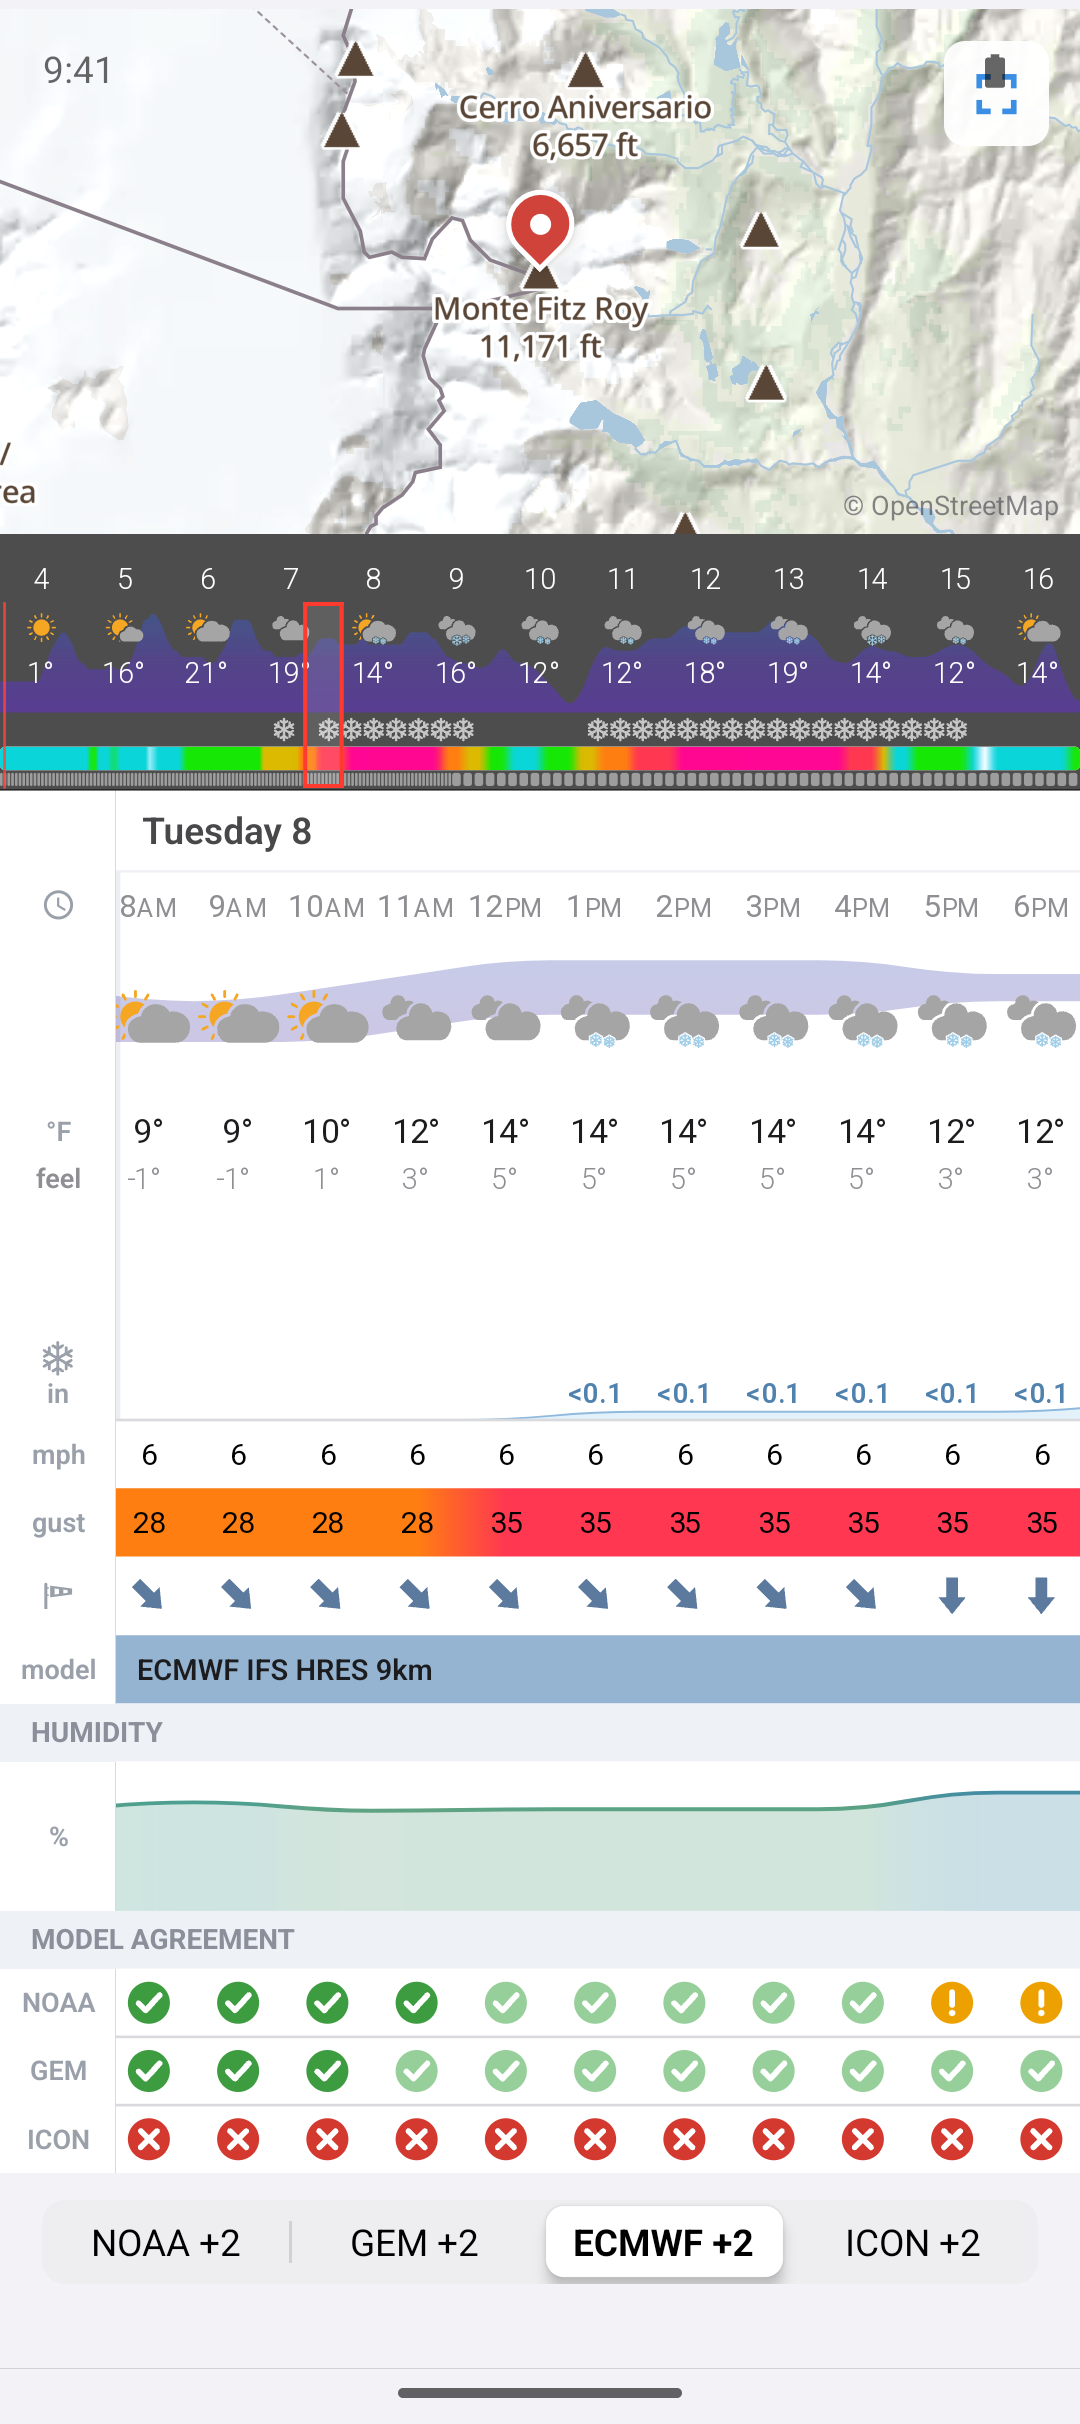
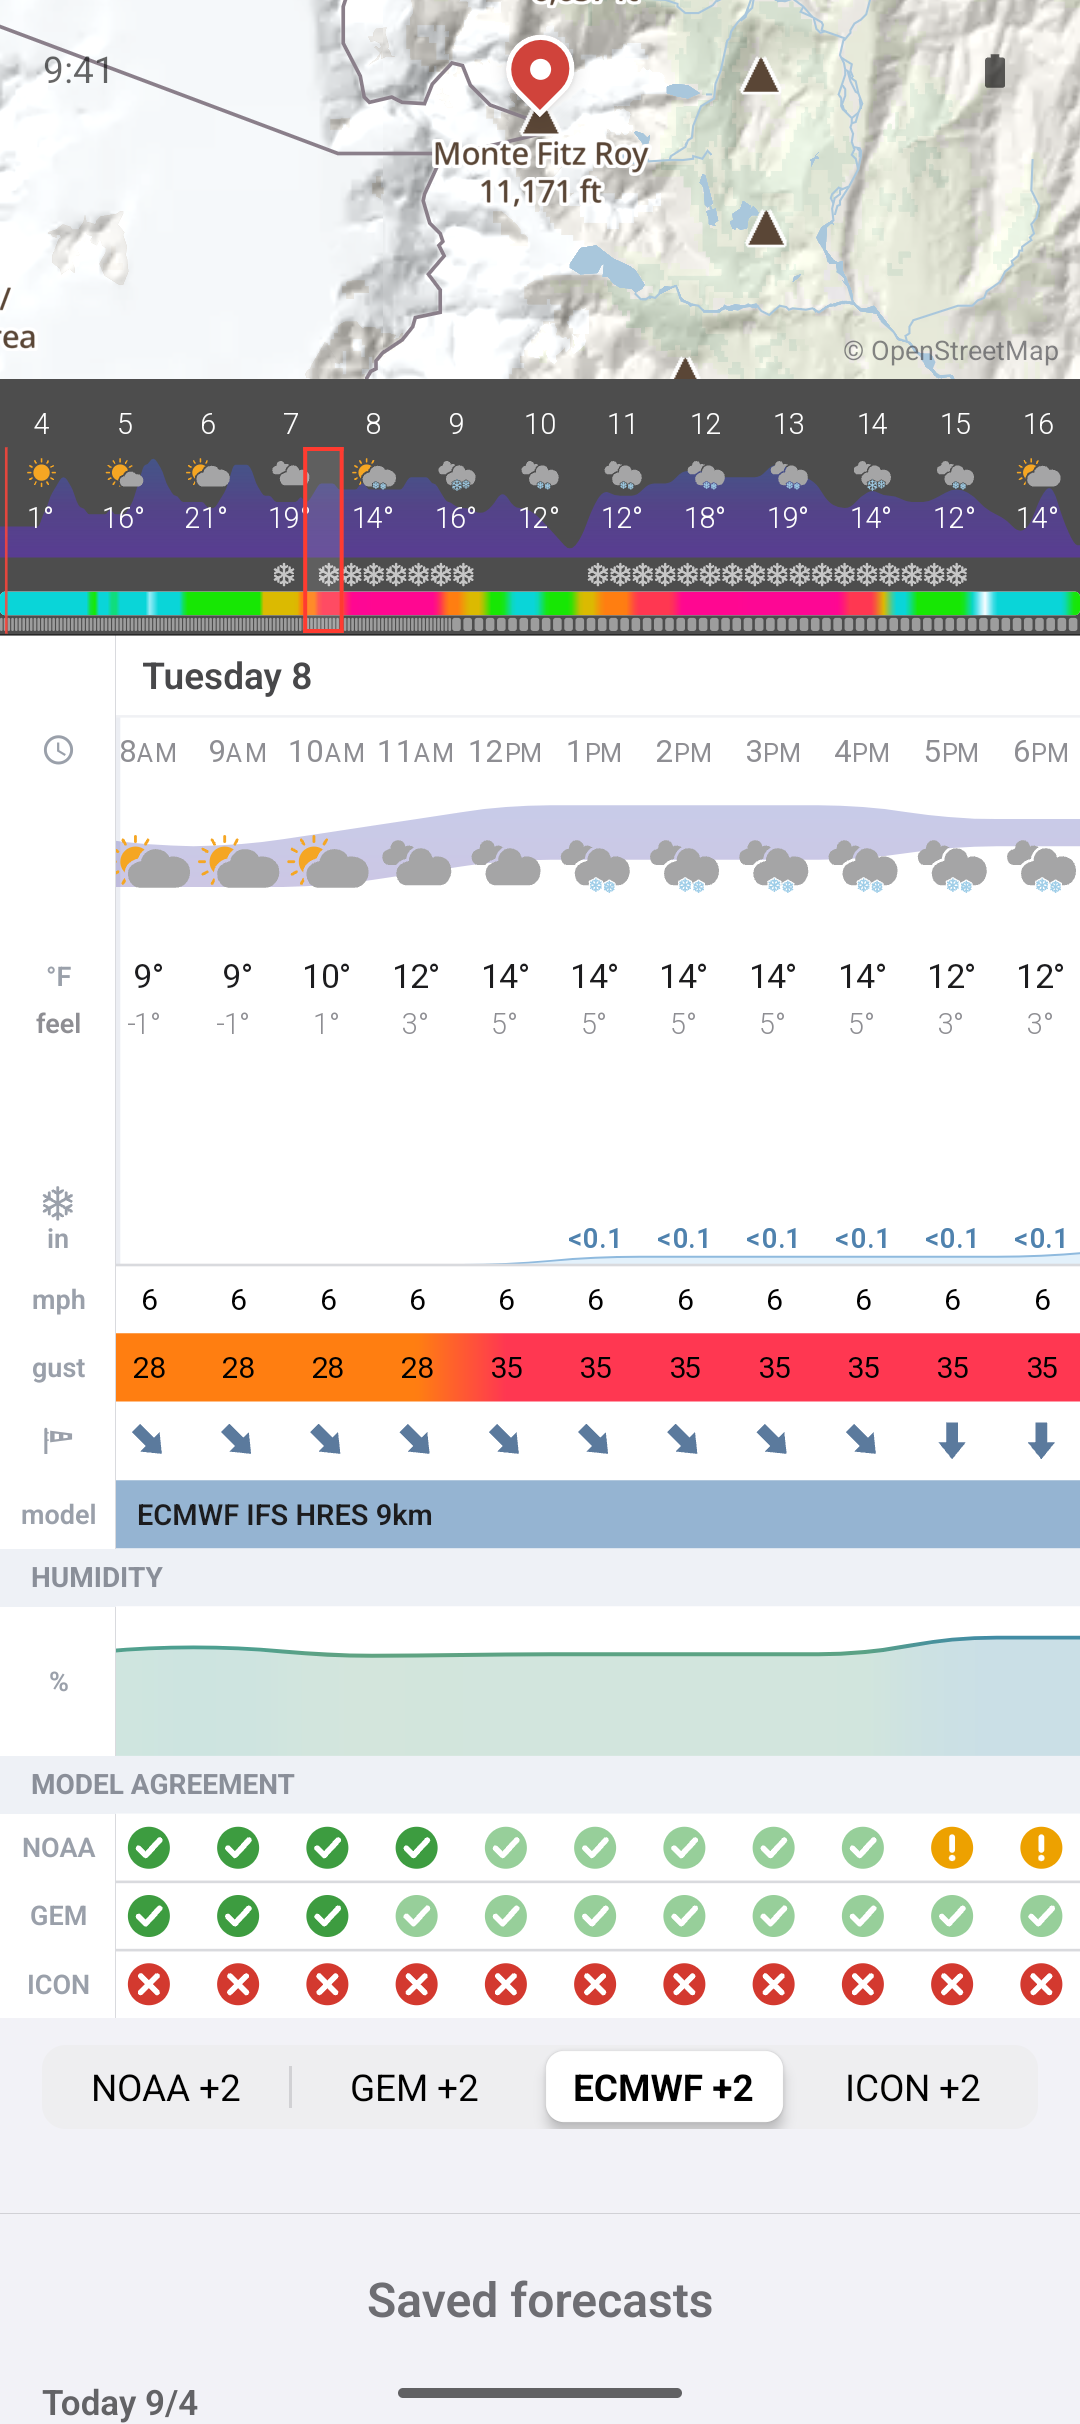
Frame Android as 16:9

diff --git a/packages/mobile/scripts/frame-screenshots.py b/packages/mobile/scripts/frame-screenshots.py
@@ -16,9 +16,10 @@ build dependency: this runs by hand when the screenshots or their captions chang
 
 The iOS output is 1320x2868 — the same size as the input, because that is what App Store Connect
 wants for the 6.9" set. So the capture is scaled inside the canvas to make room for the caption;
-the frame is not added around a full-size shot. The Android output is 1080x2160: Google Play
-caps a screenshot at 2:1, so the canvas is shorter than the 1080x2424 capture and the device is
-scaled down a little further to fit. Both sets share one layout, scaled to the canvas width.
+the frame is not added around a full-size shot. The Android output is 1080x1920: Google Play
+accepts anything up to 2:1 but only 9:16 screenshots at 1080px or more make a listing eligible
+for featured placement, so the canvas is shorter than the 1080x2424 capture and the device is
+scaled down further to fit. Both sets share one layout, scaled to the canvas width.
 """
 
 import argparse
@@ -57,7 +58,7 @@ ANDROID_CAPTIONS = {
 # in iOS canvas pixels and scale with the canvas width.
 PLATFORMS = {
     "ios": {"canvas": (1320, 2868), "dir": "screenshots", "radius_ratio": 165 / 1320},
-    "android": {"canvas": (1080, 2160), "dir": "screenshots/android", "radius_ratio": 130 / 1080},
+    "android": {"canvas": (1080, 1920), "dir": "screenshots/android", "radius_ratio": 130 / 1080},
 }
 LAYOUT_W = 1320
 

diff --git a/.agents/skills/screenshots/SKILL.md b/.agents/skills/screenshots/SKILL.md
@@ -74,13 +74,13 @@ Google Play takes the same five shots. Run everything from `packages/mobile`.
 3. If native dependencies changed since the last build, reinstall the debug build with `npx expo run:android --no-bundler`. A reinstall wipes the app's data, so do this before seeding.
 4. Import test data with `pnpm seed-shots --android`. This writes the app's SQLite database through `run-as`, so it only works with the debug build, not the preview one.
 5. Open the bundle in the dev client with `adb shell am start -a android.intent.action.VIEW -d "exp+mobile://expo-development-client/?url=http%3A%2F%2Flocalhost%3A8081" -p com.laneaasen.weather`. Both installed builds claim the scheme, so the package flag matters. Turn off the floating gear with the "Tools button" switch in the dev menu, as on iOS.
-6. Check for 8 entries under "Saved forecasts", then take the same shots as above. Use `scripts/capture-screenshot.sh --android <filename>`; captures land in `screenshots/android/`.
-7. Frame with `scripts/frame-screenshots.py --android`. Output goes to `screenshots/android/framed/` at 1080x2160, since Google Play caps screenshots at 2:1. `ANDROID_CAPTIONS` overrides the overview caption, which names the iPhone in the App Store set.
+6. Check for 8 entries under "Saved forecasts", then take the same shots as above, scrolled about 155 px further down than the iOS framing so the section each caption names clears the shorter frame: the pressure-level winds on Denali, the bottom of the clouds section, and the compare pills without the saved list below them. The top of the map marker stays in frame. Use `scripts/capture-screenshot.sh --android <filename>`; captures land in `screenshots/android/`.
+7. Frame with `scripts/frame-screenshots.py --android`. Output goes to `screenshots/android/framed/` at 1080x1920, the 9:16 size Google Play requires for featured placement. `ANDROID_CAPTIONS` overrides the overview caption, which names the iPhone in the App Store set.
 8. Cleanup. Run `scripts/capture-screenshot.sh --android --clear` to leave demo mode.
 
 Tips:
 1. `adb shell input swipe x1 y x2 y <ms>` drives everything. A swipe over 1.5 s lands without flinging. One meteogram column is about 90 px on the Pixel 9, and the first 20 px of a drag are eaten as touch slop, so nudge with 40 px rather than 20. Tapping the mini strip on the left half of a day lands at its start.
-2. The page scroll from the post-Load position to the framed position is a 235 px upward drag from the day header row.
+2. The page scroll from the post-Load position to the framed position is a 390 px upward drag from the day header row.
 3. The status bar hides the cellular icon instead of showing empty bars: Android 16's demo mode draws a "3G" badge next to any mobile icon. About 20 s after the icon is hidden, SystemUI adds a satellite icon; the capture script exits and re-enters demo mode to reset that, so capture straight after positioning.
 
 # Regenerating seeded data
